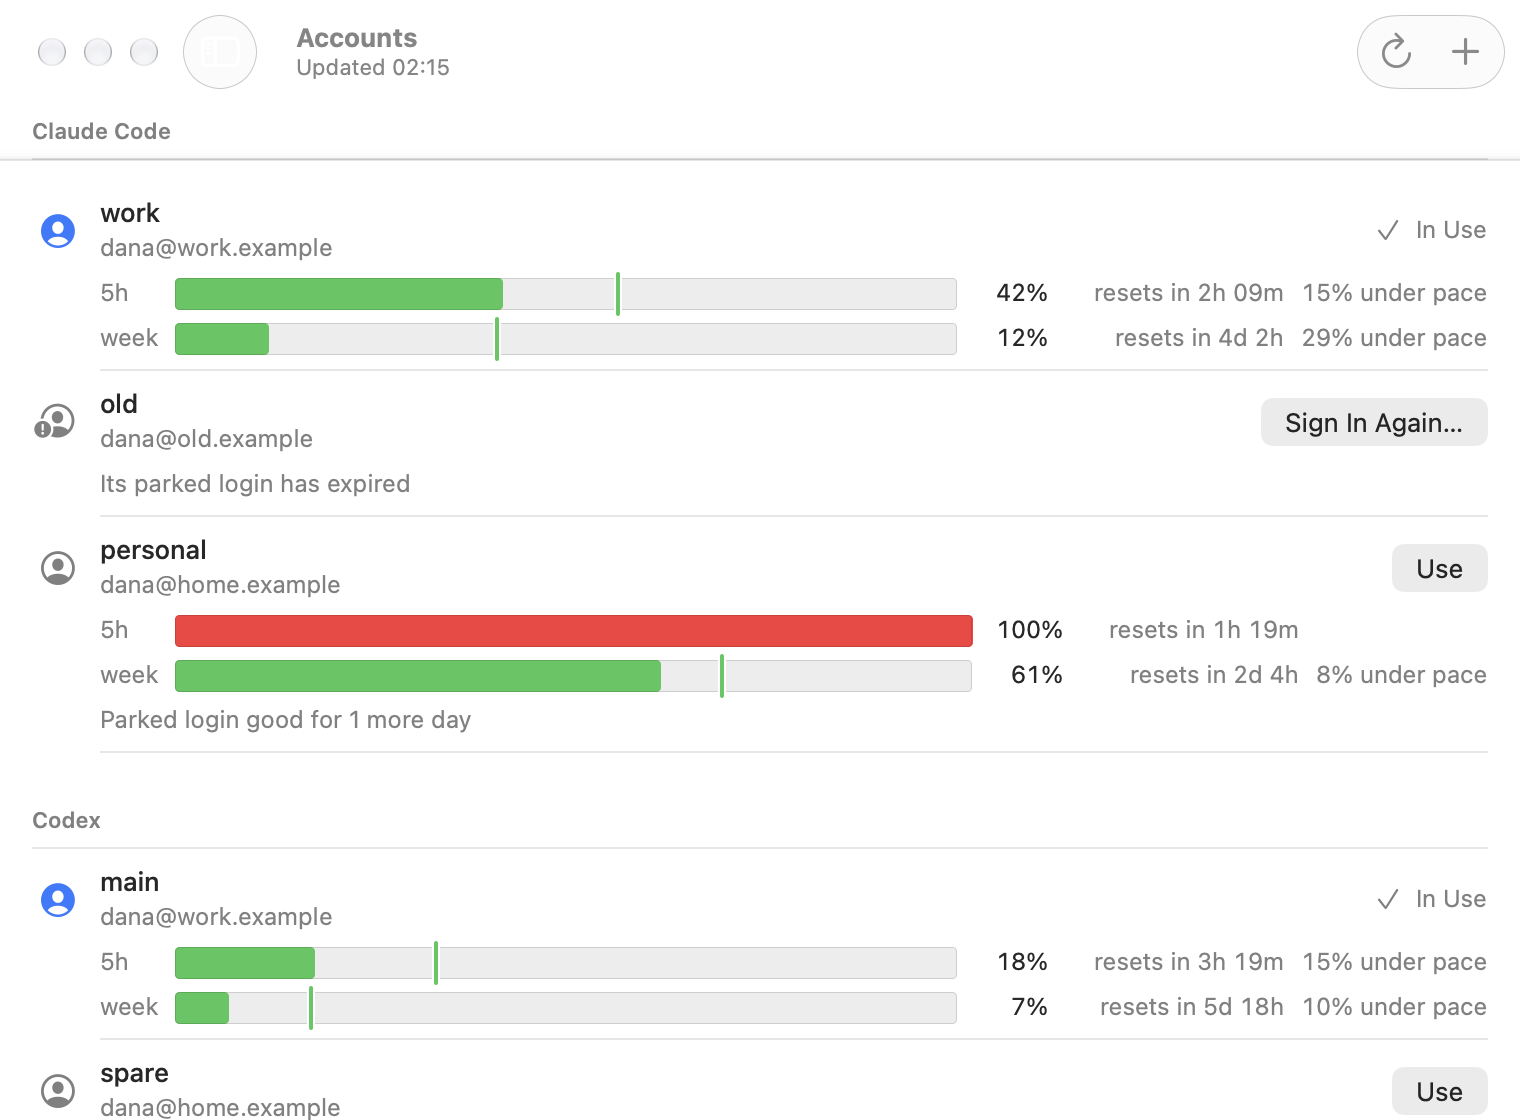
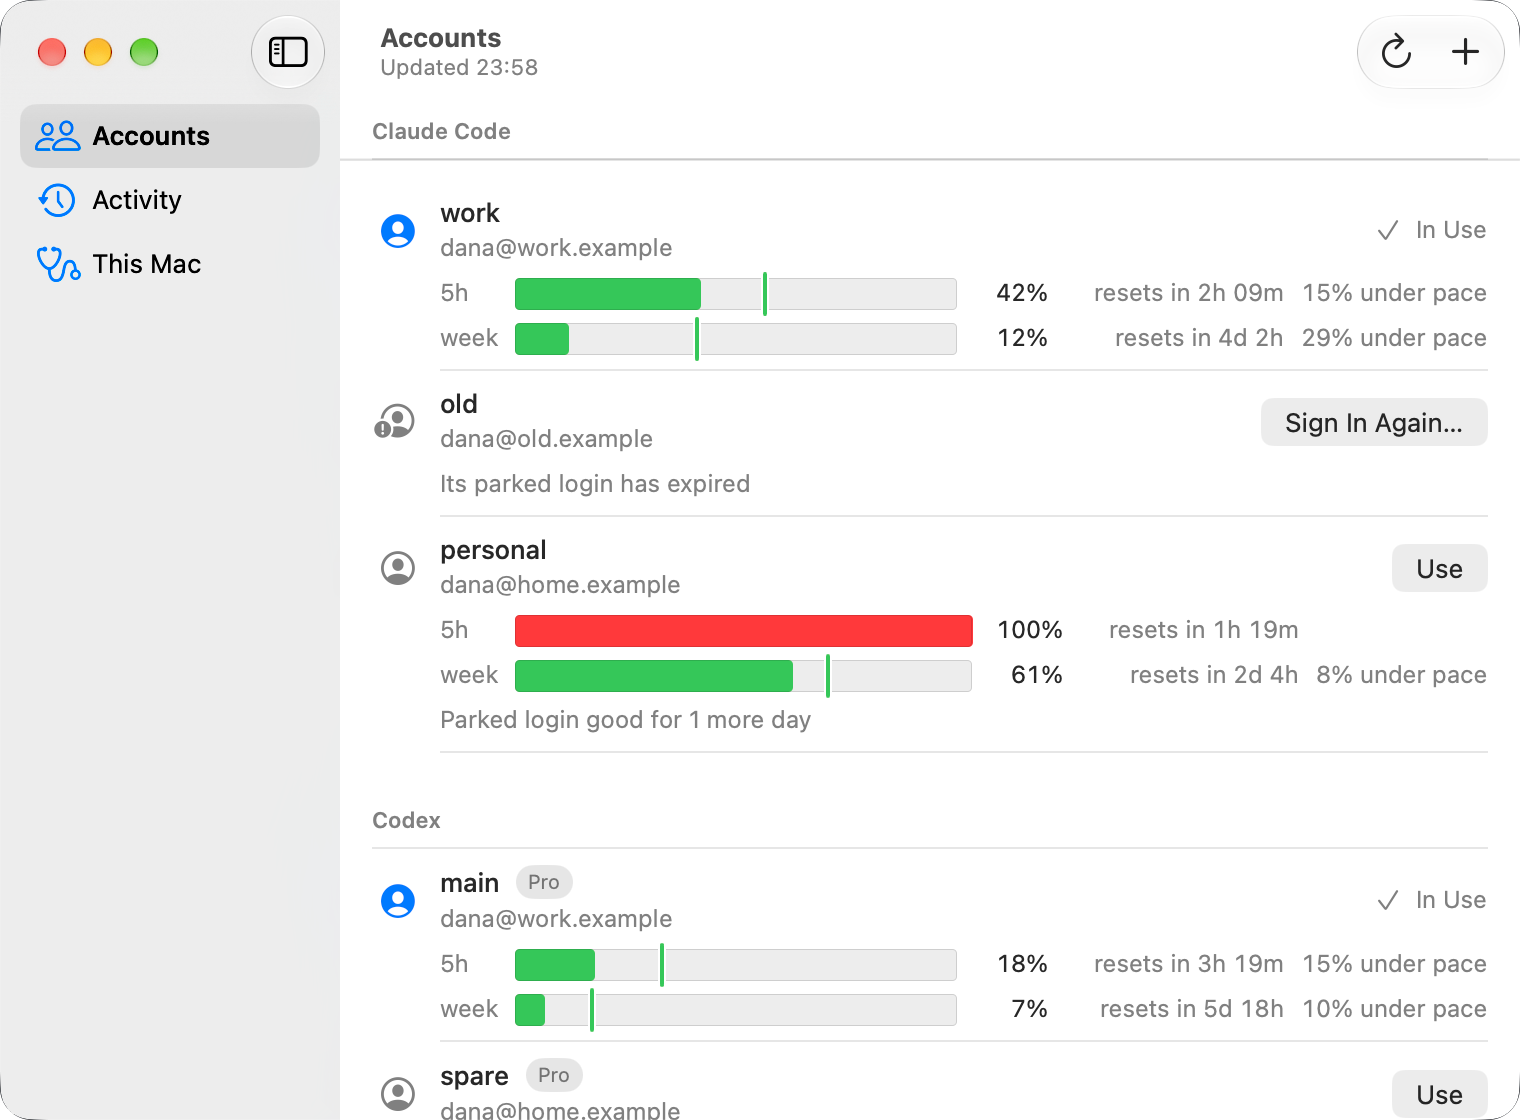
The docs' pictures of the menu and the window come from a UI test in the twoTools fixture
The menu picture had no plans, no Open claude.ai or Open chatgpt.com, and "Open pitboard"
in lower case; the window's had no plan tags. ScreenshotTests keeps both as attachments,
and docs-screenshots.sh exports them with xcresulttool at 600 px wide and 1520 x 1120.

Measured on macOS 27: the menu is see-through, so the test shows it over Pitboard's own
window, not this Mac's screen. A screenshot covers the element's frame, so the corners,
16 pt for the window and 11 pt for the menu, are cut out. The script takes 35 s with the
project built; the test 22 to 27 s.

diff --git a/apps/macos/UITests/ScreenshotTests.swift b/apps/macos/UITests/ScreenshotTests.swift
@@ -1,0 +1,73 @@
+import AppKit
+import XCTest
+
+/// Pictures for the docs, which `scripts/docs-screenshots.sh` takes from the result bundle.
+final class ScreenshotTests: FixtureTestCase {
+    @MainActor
+    func testTheMenuAndTheWindowForTheDocs() {
+        let app = launch(.twoTools)
+        let item = app.statusItems.firstMatch
+        XCTAssertTrue(item.waitForExistence(timeout: 10))
+        XCTAssertTrue(item.wait(until: "title CONTAINS 'work 42%'", timeout: 10))
+        app.openWindow()
+        let window = app.windows["main"]
+        XCTAssertTrue(window.waitForExistence(timeout: 5))
+
+        // The menu is see-through, so it is shown over this window, not over the Mac's screen.
+        app.openMenu()
+        let menu = item.menus.firstMatch
+        XCTAssertTrue(menu.waitForExistence(timeout: 5))
+        let below = menu.frame
+        app.typeKey(.escape, modifierFlags: [])
+        app.descendants(matching: .any)["sidebar.machine"].click()
+        move(window, to: CGPoint(x: below.maxX + 20 - window.frame.width, y: below.minY - 4))
+        app.openMenu()
+        XCTAssertTrue(app.menuItem("main · Pro").waitForExistence(timeout: 5))
+        keep(cutOut(menu, cornerRadius: 11), as: "menu")
+        app.typeKey(.escape, modifierFlags: [])
+
+        app.descendants(matching: .any)["sidebar.accounts"].click()
+        XCTAssertTrue(app.accountRow("codex/spare").waitForExistence(timeout: 5))
+        XCTAssertTrue(app.text("BEGINSWITH", "5-hour limit, 42").waitForExistence(timeout: 5))
+        keep(cutOut(window, cornerRadius: 16), as: "window")
+    }
+
+    @MainActor
+    private func move(_ window: XCUIElement, to origin: CGPoint) {
+        let frame = window.frame
+        let titleBar = window.coordinate(withNormalizedOffset: CGVector(dx: 0.5, dy: 0))
+            .withOffset(CGVector(dx: 0, dy: 10))
+        titleBar.click(
+            forDuration: 0.3,
+            thenDragTo: titleBar.withOffset(
+                CGVector(dx: origin.x - frame.minX, dy: origin.y - frame.minY)))
+    }
+
+    private func keep(_ png: Data, as name: String) {
+        let attachment = XCTAttachment(data: png, uniformTypeIdentifier: "public.png")
+        attachment.name = name
+        attachment.lifetime = .keepAlways
+        add(attachment)
+    }
+
+    /// A screenshot is of the element's frame, so outside its rounded corners it holds
+    /// whatever is behind; `cornerRadius` is in points, as measured on macOS 27.
+    @MainActor
+    private func cutOut(_ element: XCUIElement, cornerRadius: CGFloat) -> Data {
+        let screenshot = element.screenshot().image
+        let image = screenshot.cgImage(forProposedRect: nil, context: nil, hints: nil)!
+        let bounds = CGRect(x: 0, y: 0, width: image.width, height: image.height)
+        let radius = cornerRadius * bounds.width / element.frame.width
+        let context = CGContext(
+            data: nil, width: image.width, height: image.height, bitsPerComponent: 8,
+            bytesPerRow: 0, space: CGColorSpace(name: CGColorSpace.sRGB)!,
+            bitmapInfo: CGImageAlphaInfo.premultipliedLast.rawValue)!
+        context.addPath(
+            CGPath(
+                roundedRect: bounds, cornerWidth: radius, cornerHeight: radius, transform: nil))
+        context.clip()
+        context.draw(image, in: bounds)
+        let cut = NSBitmapImageRep(cgImage: context.makeImage()!)
+        return cut.representation(using: .png, properties: [:])!
+    }
+}

diff --git a/CONTRIBUTING.md b/CONTRIBUTING.md
@@ -206,6 +206,14 @@ xcodebuild test -project apps/macos/Pitboard.xcodeproj -scheme Pitboard -destina
 macOS asks for a password before a UI test can drive the app, unless the Mac allows
 Automation Mode without one. `automationmodetool` says which applies to your Mac.
 
+The pictures of the menu and the window in `docs/images` and `.github/media` come from the
+UI test `ScreenshotTests`, in the `twoTools` fixture and your Mac's appearance. This takes
+them again, writes them at the sizes the docs use and unregisters the build:
+
+```sh
+./apps/macos/scripts/docs-screenshots.sh
+```
+
 ### Unregister a build
 
 A debug build keeps apart from a copy you installed. A release build you made claims what

diff --git a/README.md b/README.md
@@ -9,7 +9,8 @@ and see what each Claude Code and Codex account has left.
 
 <img src="https://raw.githubusercontent.com/datlechin/pitboard/main/.github/media/menu.png"
   alt="The Pitboard menu, listing Claude Code and Codex accounts, with a check mark on each
-  one in use and, under each account's name, its usage or that it needs signing in again"
+  one in use, the plan after each Codex account's name and, under each account's name, its
+  usage or that it needs signing in again"
   width="300">
 
 Pitboard keeps the login of each account you are not using, called a parked login. A switch
